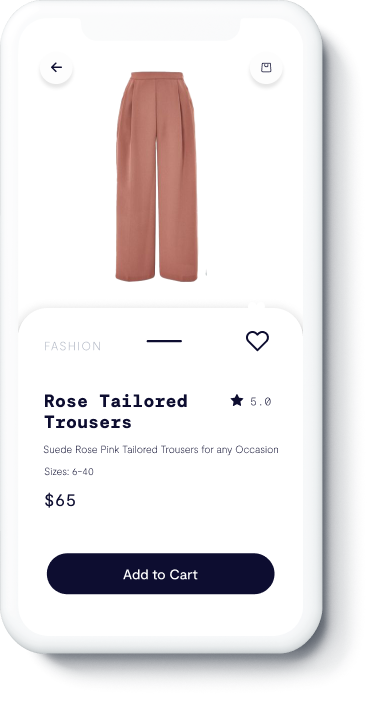
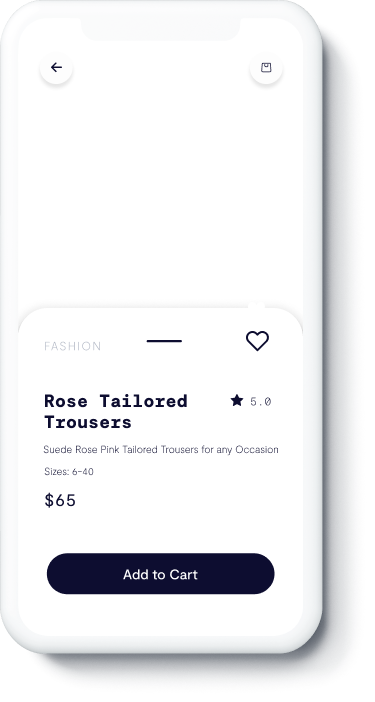
animation

Changed region(s): [[0.2933, 0.0897, 0.528, 0.4188]]

diff --git a/src/sass/animation-header-slide-02.sass b/src/sass/animation-header-slide-02.sass
@@ -35,6 +35,27 @@
 			animation: ease-out 23400ms 1 forwards property02Key
 			&-text
 				animation: ease-out 23400ms 1 forwards propertyText02Key
+		.phone-animation-slide-02
+			position: absolute
+			right: 12.3%
+			top: -702px
+			width: 374px
+			height: 702px
+			background: url(../images/phone-animation-slide-01.png) no-repeat 0 0
+			animation: ease-out 23400ms 1 forwards phoneAnimationSlide02Key
+
+	@keyframes phoneAnimationSlide02Key
+		32.48%
+			top: -702px
+		35.04%
+			top: 118px
+		40.17%
+			opacity: 1
+		42.74%
+			opacity: 0
+		100%
+			top: 118px
+			opacity: 0
 
 	@keyframes propertiesContainer02Key
 		24.79%

diff --git a/src/sass/animation-header-slide-03.sass b/src/sass/animation-header-slide-03.sass
@@ -25,6 +25,27 @@
 			animation: ease-out 23400ms 1 forwards property03Key
 			&-text
 				animation: ease-out 23400ms 1 forwards propertyText03Key
+		.phone-animation-slide-03
+			position: absolute
+			right: 12.3%
+			top: -702px
+			width: 374px
+			height: 702px
+			background: url(../images/phone-animation-slide-01.png) no-repeat 0 0
+			animation: ease-out 23400ms 1 forwards phoneAnimationSlide03Key
+
+	@keyframes phoneAnimationSlide03Key
+		61.11%
+			top: -702px
+		63.68%
+			top: 118px
+		68.8%
+			opacity: 1
+		71.37%
+			opacity: 0
+		100%
+			top: 118px
+			opacity: 0
 
 	@keyframes propertiesContainer03Key
 		53.42%

diff --git a/src/sass/animation-header-slide-04.sass b/src/sass/animation-header-slide-04.sass
@@ -25,6 +25,25 @@
 			animation: ease-out 23400ms 1 forwards property04Key
 			&-text
 				animation: ease-out 23400ms 1 forwards propertyText04Key
+		.phone-animation-slide-04
+			position: absolute
+			right: 12.3%
+			top: -702px
+			width: 374px
+			height: 702px
+			background: url(../images/phone-animation-slide-01.png) no-repeat 0 0
+			animation: ease-out 23400ms 1 forwards phoneAnimationSlide04Key
+
+	@keyframes phoneAnimationSlide04Key
+		89.74%
+			top: -702px
+		92.31%
+			top: 118px
+		97.44%
+			opacity: 1
+		100%
+			top: 118px
+			opacity: 0
 
 	@keyframes propertiesContainer04Key
 		82.05%
